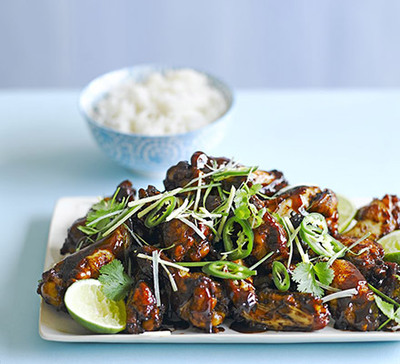
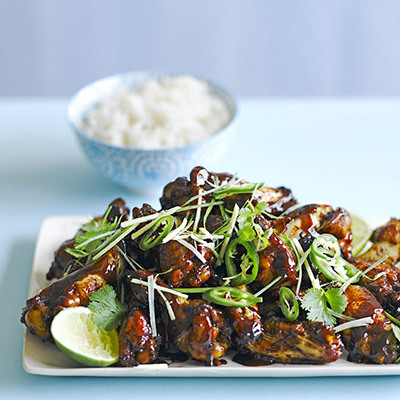
Allow thumbnail images

diff --git a/app/models/recipe.rb b/app/models/recipe.rb
@@ -12,6 +12,6 @@ class Recipe < ActiveRecord::Base
                                 reject_if: proc { |attributes| attributes['step'].blank? },
                                 allow_destroy: true
   validates :title, :description, :image, presence: true
-  has_attached_file :image, styles: { :medium => "400x400>" }
+  has_attached_file :image, styles: { :medium => "400x400#", :thumb=> "100x100#" }
   validates_attachment_content_type :image, content_type: /\Aimage\/.*\Z/
 end
